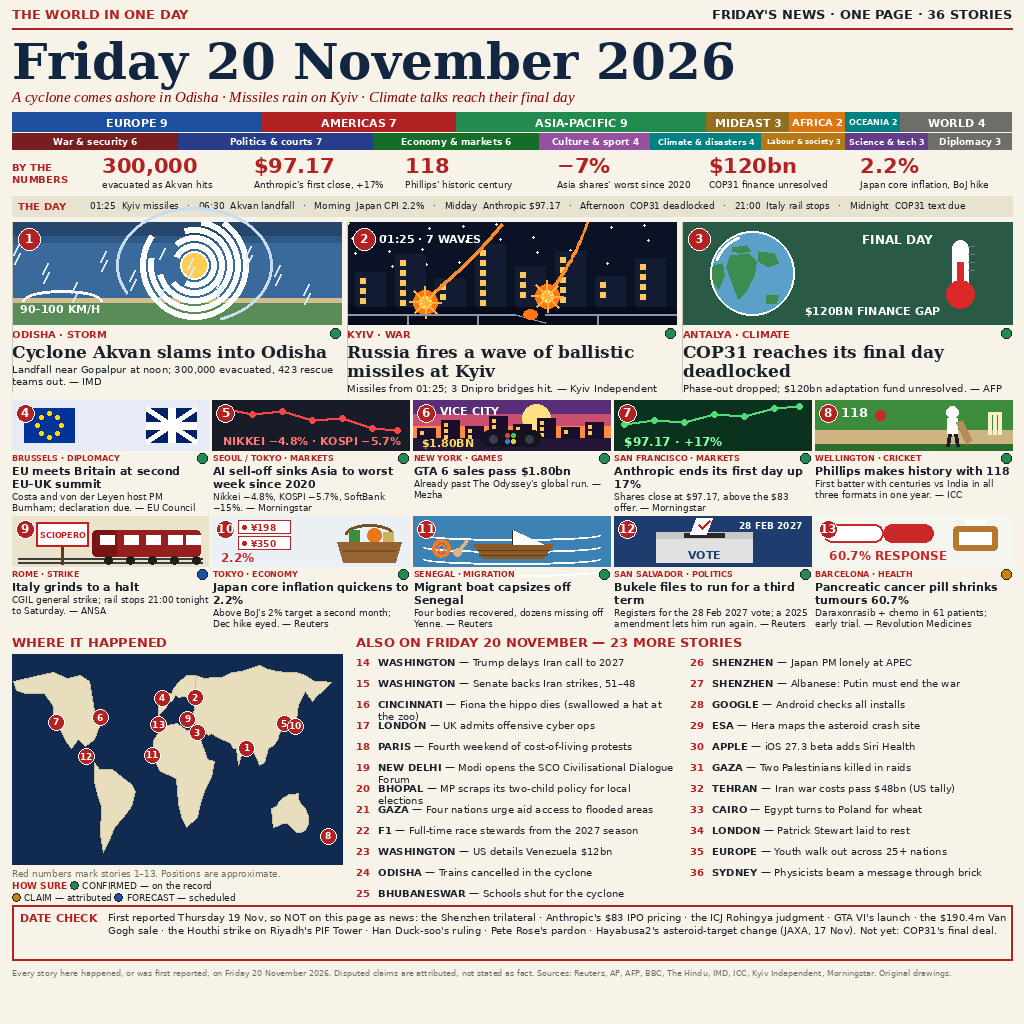
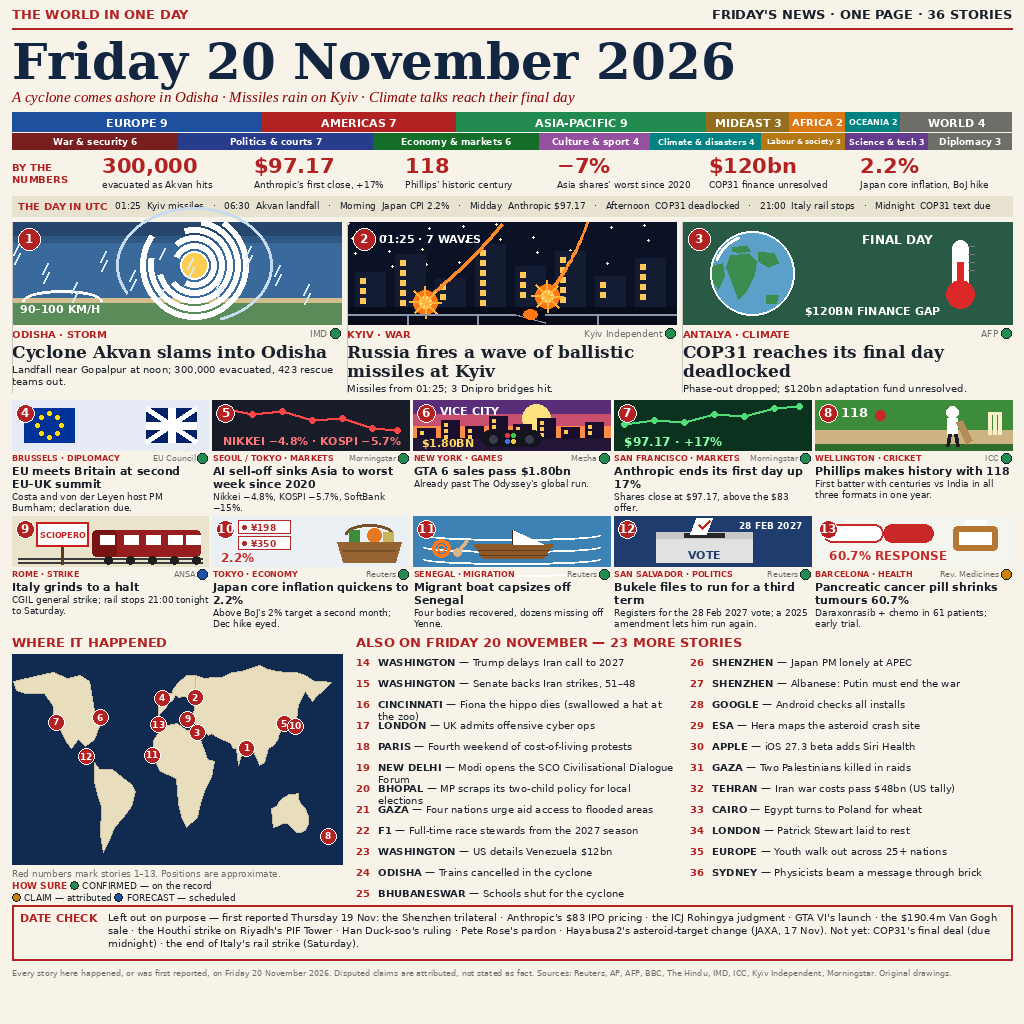
news-image-20261120 v10: winner devices from 19 Nov top 3 (UTC timeline label, restructured DATE CHECK, per-card source in kicker) — same 36 stories and hierarchy as v9

diff --git a/draw.py b/draw.py
@@ -24,6 +24,15 @@ on the four weakest illustrations only: COP31's globe is a proper Earth
 the cricket batsman is bigger with a bladed bat and taller stumps;
 the migrant boat gains a planked hull, a life ring and a person in the
 water; the cancer pill gains a pill bottle beside the capsule.
+
+v10: same 36 stories, same selection, layout and hierarchy as v9, plus
+the winner devices from news-image-20261119's top 3 (#1 superskie 37
+stories, #2 gentle-badger-68 46, #3 nomind 50 — all share them): the
+timeline strip is relabelled "THE DAY IN UTC"; the DATE CHECK box is
+restructured (left-out list + an explicit Not yet list); every card's
+kicker row now names its source beside the HOW SURE dot (the source
+moves out of the dek, as the winners do). HOW TO READ box skipped —
+no free space on the page. Sources footer and region bar kept.
 """
 
 import math
@@ -102,19 +111,22 @@ LEADS = [
     {
         "n": 1, "place": "ODISHA", "field": "STORM",
         "head": "Cyclone Akvan slams into Odisha",
-        "dek": "Landfall near Gopalpur at noon; 300,000 evacuated, 423 rescue teams out. — IMD",
+        "dek": "Landfall near Gopalpur at noon; 300,000 evacuated, 423 rescue teams out.",
+        "src": "IMD",
         "scene": "cyclone",
     },
     {
         "n": 2, "place": "KYIV", "field": "WAR",
         "head": "Russia fires a wave of ballistic missiles at Kyiv",
-        "dek": "Missiles from 01:25; 3 Dnipro bridges hit. — Kyiv Independent",
+        "dek": "Missiles from 01:25; 3 Dnipro bridges hit.",
+        "src": "Kyiv Independent",
         "scene": "kyiv",
     },
     {
         "n": 3, "place": "ANTALYA", "field": "CLIMATE",
         "head": "COP31 reaches its final day deadlocked",
-        "dek": "Phase-out dropped; $120bn adaptation fund unresolved. — AFP",
+        "dek": "Phase-out dropped; $120bn adaptation fund unresolved.",
+        "src": "AFP",
         "scene": "cop31",
     },
 ]
@@ -122,43 +134,53 @@ LEADS = [
 MEDIUMS = [
     {"n": 4, "place": "BRUSSELS", "field": "DIPLOMACY",
      "head": "EU meets Britain at second EU–UK summit",
-     "dek": "Costa and von der Leyen host PM Burnham; declaration due. — EU Council",
+     "dek": "Costa and von der Leyen host PM Burnham; declaration due.",
+     "src": "EU Council",
      "scene": "flags"},
     {"n": 5, "place": "SEOUL / TOKYO", "field": "MARKETS",
      "head": "AI sell-off sinks Asia to worst week since 2020",
-     "dek": "Nikkei −4.8%, KOSPI −5.7%, SoftBank −15%. — Morningstar",
+     "dek": "Nikkei −4.8%, KOSPI −5.7%, SoftBank −15%.",
+     "src": "Morningstar",
      "scene": "chart_down"},
     {"n": 6, "place": "NEW YORK", "field": "GAMES",
      "head": "GTA 6 sales pass $1.80bn",
-     "dek": "Already past The Odyssey's global run. — Mezha",
+     "dek": "Already past The Odyssey's global run.",
+     "src": "Mezha",
      "scene": "gta"},
     {"n": 7, "place": "SAN FRANCISCO", "field": "MARKETS",
      "head": "Anthropic ends its first day up 17%",
-     "dek": "Shares close at $97.17, above the $83 offer. — Morningstar",
+     "dek": "Shares close at $97.17, above the $83 offer.",
+     "src": "Morningstar",
      "scene": "chart_up"},
     {"n": 8, "place": "WELLINGTON", "field": "CRICKET",
      "head": "Phillips makes history with 118",
-     "dek": "First batter with centuries vs India in all three formats in one year. — ICC",
+     "dek": "First batter with centuries vs India in all three formats in one year.",
+     "src": "ICC",
      "scene": "cricket"},
     {"n": 9, "place": "ROME", "field": "STRIKE",
      "head": "Italy grinds to a halt",
-     "dek": "CGIL general strike; rail stops 21:00 tonight to Saturday. — ANSA",
+     "dek": "CGIL general strike; rail stops 21:00 tonight to Saturday.",
+     "src": "ANSA",
      "scene": "strike"},
     {"n": 10, "place": "TOKYO", "field": "ECONOMY",
      "head": "Japan core inflation quickens to 2.2%",
-     "dek": "Above BoJ's 2% target a second month; Dec hike eyed. — Reuters",
+     "dek": "Above BoJ's 2% target a second month; Dec hike eyed.",
+     "src": "Reuters",
      "scene": "yen"},
     {"n": 11, "place": "SENEGAL", "field": "MIGRATION",
      "head": "Migrant boat capsizes off Senegal",
-     "dek": "Four bodies recovered, dozens missing off Yenne. — Reuters",
+     "dek": "Four bodies recovered, dozens missing off Yenne.",
+     "src": "Reuters",
      "scene": "boat"},
     {"n": 12, "place": "SAN SALVADOR", "field": "POLITICS",
      "head": "Bukele files to run for a third term",
-     "dek": "Registers for the 28 Feb 2027 vote; a 2025 amendment lets him run again. — Reuters",
+     "dek": "Registers for the 28 Feb 2027 vote; a 2025 amendment lets him run again.",
+     "src": "Reuters",
      "scene": "ballot"},
     {"n": 13, "place": "BARCELONA", "field": "HEALTH",
      "head": "Pancreatic cancer pill shrinks tumours 60.7%",
-     "dek": "Daraxonrasib + chemo in 61 patients; early trial. — Revolution Medicines",
+     "dek": "Daraxonrasib + chemo in 61 patients; early trial.",
+     "src": "Rev. Medicines",
      "scene": "pill"},
 ]
 
@@ -228,12 +250,15 @@ TIMELINE = [
     ("Midnight", "COP31 text due"),
 ]
 
+# v10: restructured like the 19 Nov winners' DATE CHECK — an explicit
+# left-out list, then an explicit Not yet list.
 DATECHECK = (
-    "First reported Thursday 19 Nov, so NOT on this page as news: the Shenzhen "
+    "Left out on purpose — first reported Thursday 19 Nov: the Shenzhen "
     "trilateral · Anthropic's $83 IPO pricing · the ICJ Rohingya judgment · "
     "GTA VI's launch · the $190.4m Van Gogh sale · the Houthi strike on Riyadh's "
     "PIF Tower · Han Duck-soo's ruling · Pete Rose's pardon · Hayabusa2's "
-    "asteroid-target change (JAXA, 17 Nov). Not yet: COP31's final deal."
+    "asteroid-target change (JAXA, 17 Nov). Not yet: COP31's final deal "
+    "(due midnight) · the end of Italy's rail strike (Saturday)."
 )
 
 SOURCES = (
@@ -756,9 +781,10 @@ def main():
     # ---- timeline strip
     y = 196
     d.rectangle([M, y, W - M, y + 20], fill=(232, 226, 208))
+    # v10: labelled as a UTC timeline, as the 19 Nov winners do.
     f_tl = font(SANS_BOLD, 10)
-    d.text((M + 6, y + 4), "THE DAY", font=f_tl, fill=RED)
-    tx = M + 78
+    d.text((M + 6, y + 4), "THE DAY IN UTC", font=f_tl, fill=RED)
+    tx = M + 6 + d.textlength("THE DAY IN UTC", font=f_tl) + 8
     f_tlb = font(SANS, 9)
     for i, (t, what) in enumerate(TIMELINE):
         seg = f"{t}  {what}"
@@ -779,6 +805,11 @@ def main():
         ty = y + scene_h + 4
         f_kick = font(SANS_BOLD, 10)
         d.text((lx, ty), f"{lead['place']} · {lead['field']}", font=f_kick, fill=RED)
+        # v10: source named in the kicker, beside the HOW SURE dot
+        # (as the 19 Nov winners do); right-aligned before the dot.
+        f_src = font(SANS, 9)
+        sw = d.textlength(lead["src"], font=f_src)
+        d.text((lx + lead_w - 6 - 8 - sw, ty), lead["src"], font=f_src, fill=GREY)
         sure_dot(d, lx + lead_w - 6, ty + 5, HOW_SURE[lead["n"]])
         ty += 14
         f_head = font(SERIF, 17)
@@ -804,6 +835,10 @@ def main():
             ty = my + scene_h + 3
             f_kick = font(SANS_BOLD, 8)
             d.text((mx, ty), f"{m['place']} · {m['field']}", font=f_kick, fill=RED)
+            # v10: source named in the kicker, beside the HOW SURE dot.
+            f_src = font(SANS, 8)
+            sw = d.textlength(m["src"], font=f_src)
+            d.text((mx + med_w - 6 - 7 - sw, ty), m["src"], font=f_src, fill=GREY)
             sure_dot(d, mx + med_w - 6, ty + 5, HOW_SURE[m["n"]])
             ty += 11
             f_head = font(SANS_BOLD, 11)
